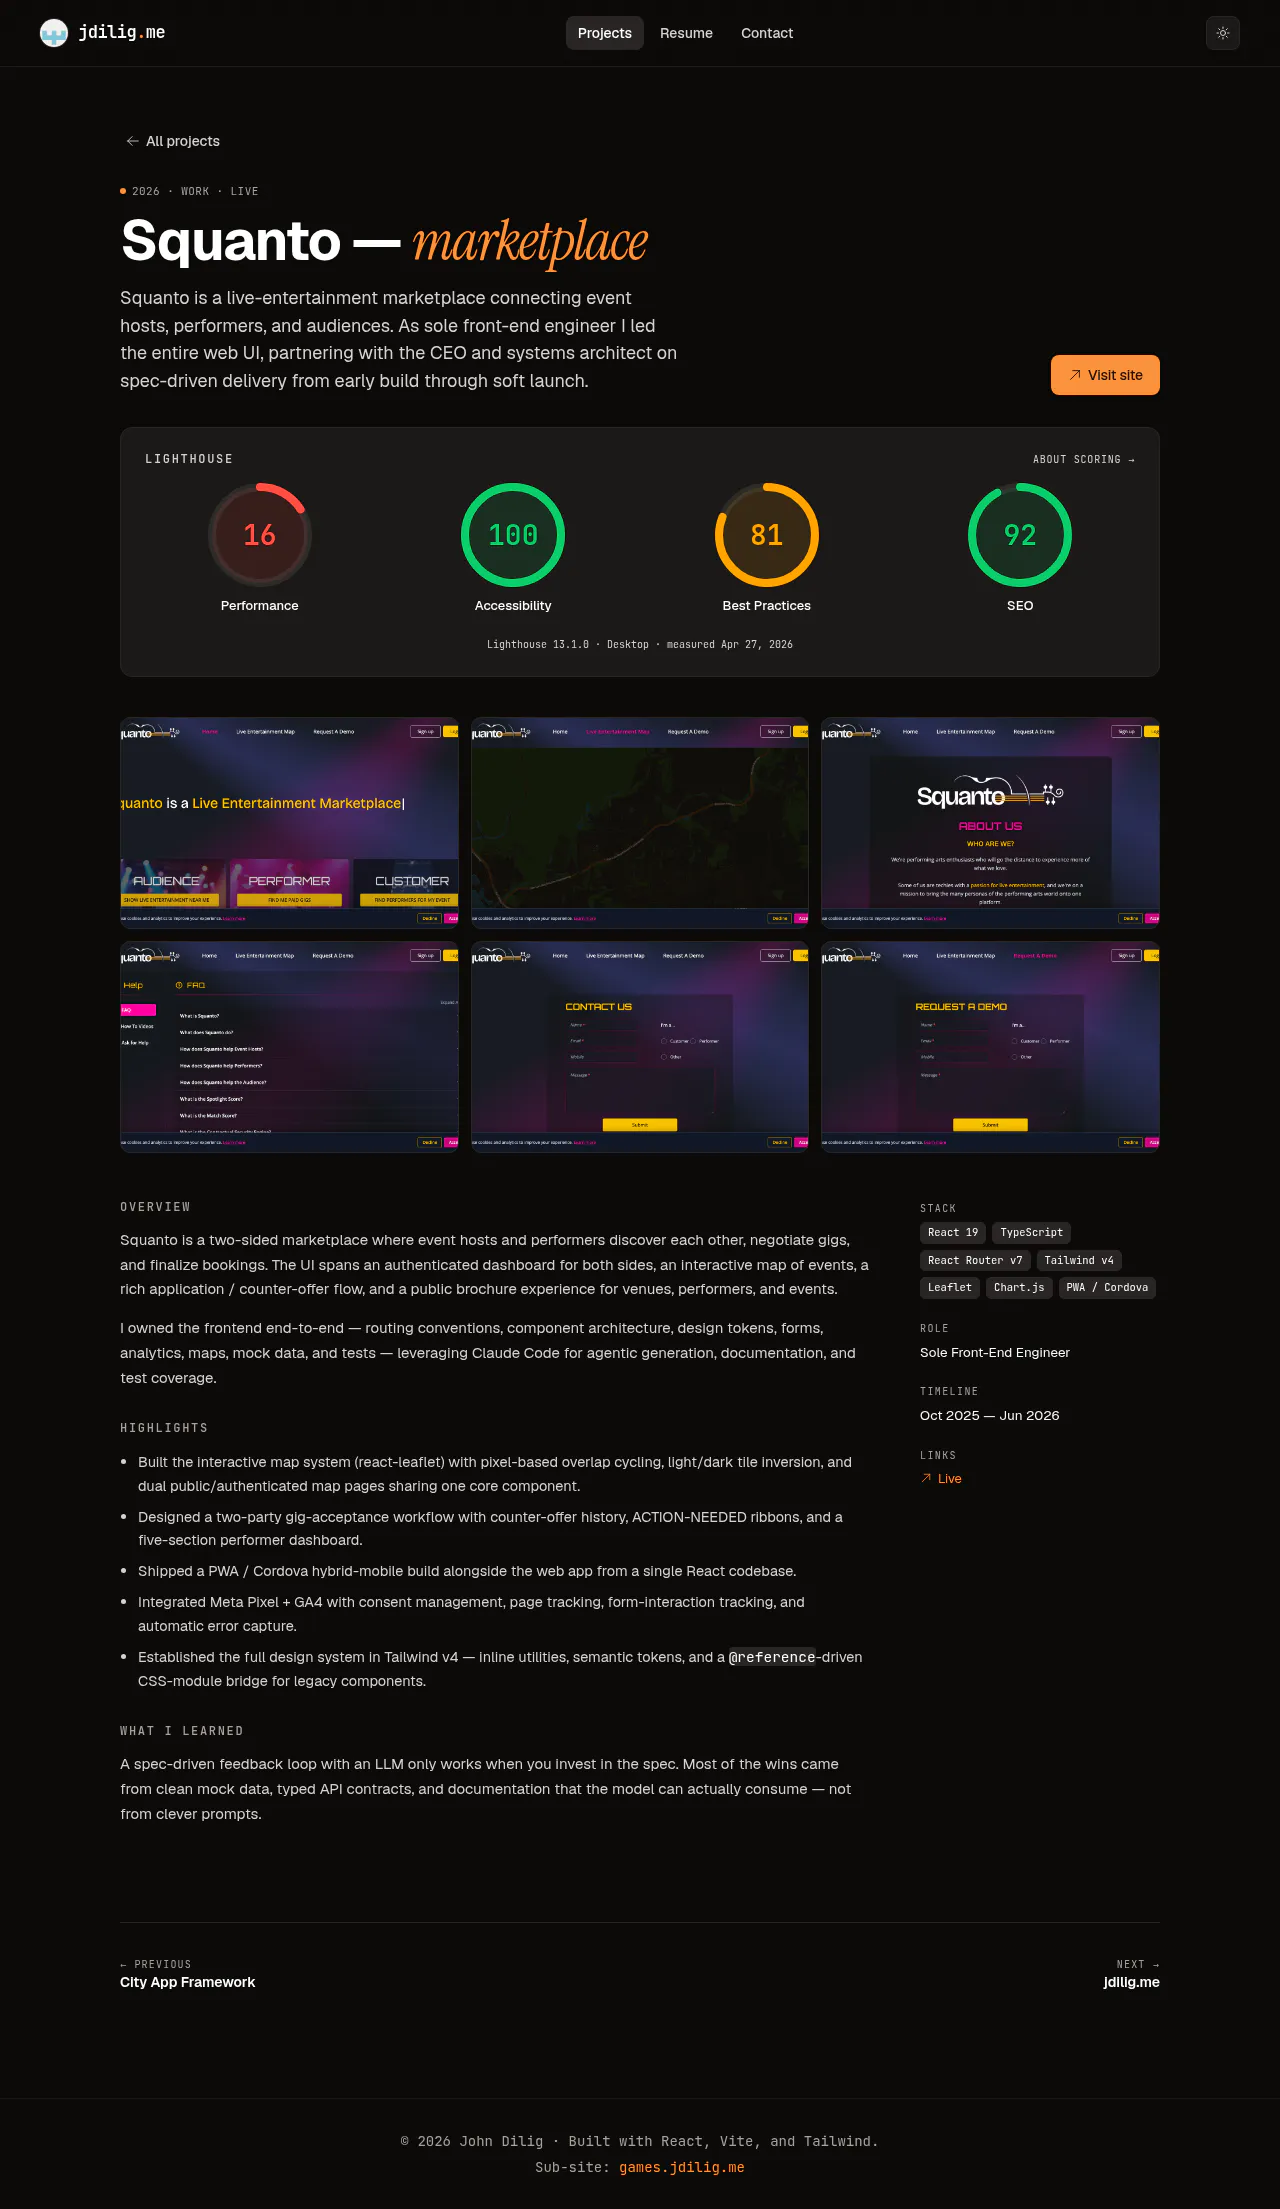
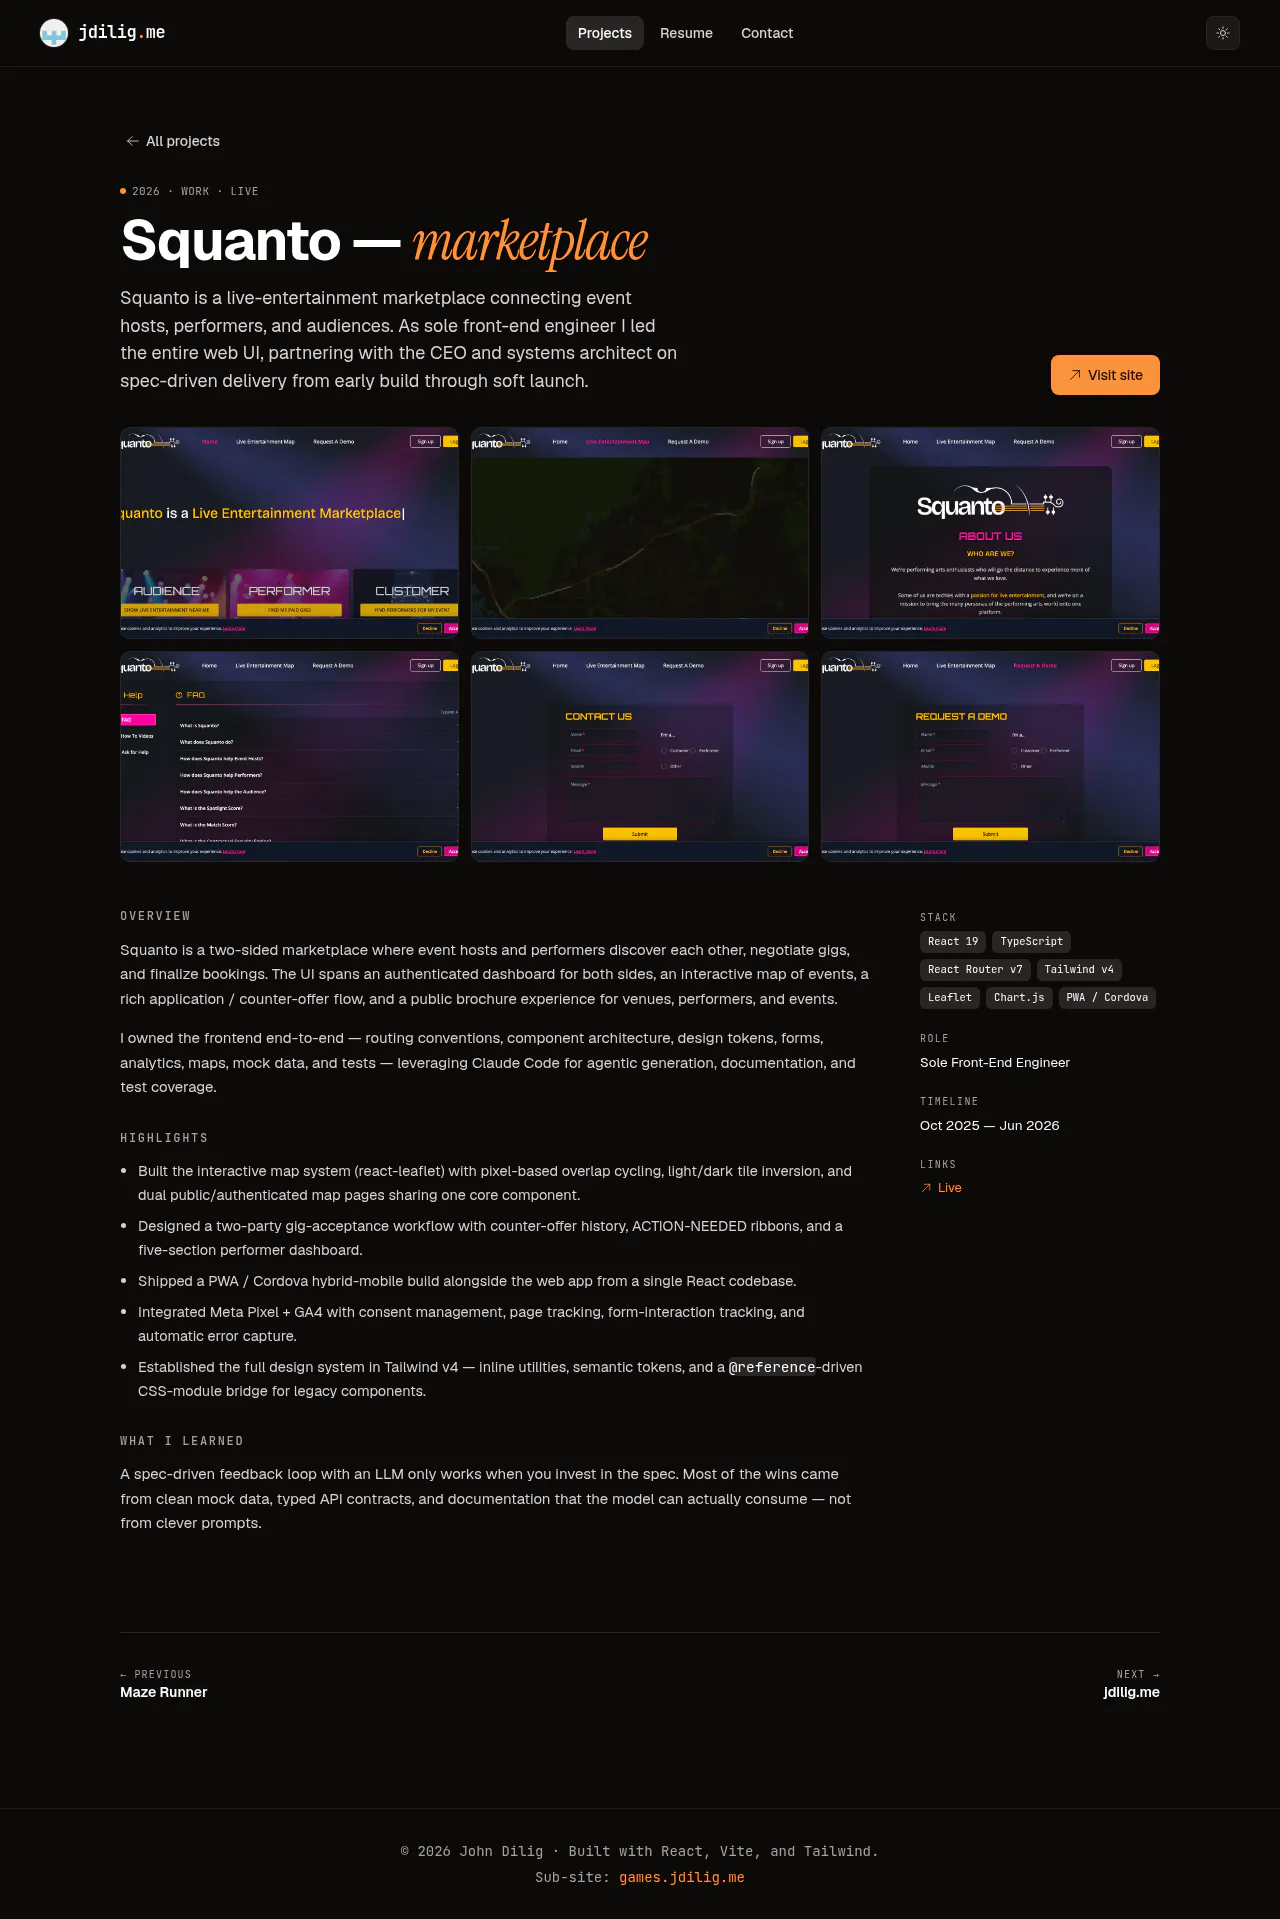
Retake the site screenshots; capture thumbnails per shot
The 8 jdilig.me screenshots were taken before City App Framework was
hidden and Squanto featured, and before the Lighthouse scores were
refreshed. Retook them; home-*, projects-* and project-detail-* changed,
resume and contact came out identical.

The first retake showed a pipeline bug: thumbnails were refreshed only
after the whole run, so the project-page shots showed last run's
thumbnails (City App Framework still featured in a tile). The spec now
writes each thumbnail right after its capture and captures the two
project pages last. Retaken again in that order; the jdilig.me project
page shot now shows the new tiles.

Also:
- jdilig.me case study: the light accent is orange-700, not orange-600.
- BACKLOG: records John's call to hold off on the Resend cleanup, skip
  deleting the old Vercel project, and skip real-phone checks; notes to
  retake screenshots when City App Framework returns.

Claude-Session: https://claude.ai/code/session_01NJcaYBv3Qm8KUHS4kHoaP5

diff --git a/tests/screenshots.spec.ts b/tests/screenshots.spec.ts
@@ -2,7 +2,7 @@ import { test, expect } from '@playwright/test';
 import path from 'node:path';
 import fs from 'node:fs';
 import sharp from 'sharp';
-import { makeThumbnails } from '../scripts/thumbnails.mjs';
+import { writeThumbnail } from '../scripts/thumbnails.mjs';
 
 const OUT_DIR = path.join(process.cwd(), 'public', 'screenshots');
 
@@ -47,10 +47,11 @@ const SHOTS: Shot[] = [
   { slug: 'home-dark', path: '/', theme: 'dark' },
   { slug: 'projects-light', path: '/projects', theme: 'light' },
   { slug: 'projects-dark', path: '/projects', theme: 'dark' },
-  { slug: 'project-detail-squanto', path: '/projects/squanto', theme: 'dark' },
-  { slug: 'project-detail-jdilig-me', path: '/projects/jdilig-me', theme: 'light' },
   { slug: 'resume', path: '/resume', theme: 'light' },
   { slug: 'contact', path: '/contact', theme: 'light' },
+  // Last: these pages show thumbnails of the shots above.
+  { slug: 'project-detail-squanto', path: '/projects/squanto', theme: 'dark' },
+  { slug: 'project-detail-jdilig-me', path: '/projects/jdilig-me', theme: 'light' },
 
   // --- Squanto public pages (routes confirmed against docs/site/SITEMAP.md) ---
   { slug: 'squanto-home', path: 'https://squanto.app/home', external: true, timeout: 60_000 },
@@ -77,12 +78,6 @@ const SHOTS: Shot[] = [
 
 test.beforeAll(() => {
   fs.mkdirSync(OUT_DIR, { recursive: true });
-});
-
-// Refresh the gallery thumbnails (public/screenshots/thumbs/) from whatever
-// this run captured.
-test.afterAll(async () => {
-  await makeThumbnails();
 });
 
 for (const shot of SHOTS) {
@@ -218,5 +213,7 @@ for (const shot of SHOTS) {
     await sharp(png)
       .webp({ quality: 80, smartSubsample: true })
       .toFile(path.join(OUT_DIR, `${shot.slug}.webp`));
+    // Right away, so pages captured later in this run show the new thumbnail.
+    await writeThumbnail(`${shot.slug}.webp`);
   });
 }

diff --git a/src/data/projects.ts b/src/data/projects.ts
@@ -243,7 +243,7 @@ export const ALL_PROJECTS: Project[] = [
     ],
     highlights: [
       'Tokens-first: every color, radius, shadow, and motion curve lives in one CSS file, bridged to Tailwind v4 via `@theme inline`.',
-      "Dark mode that flips ink and accent (orange-600 → orange-400) — not just background — driven by a `data-theme` attribute with a `@custom-variant dark` bridge.",
+      "Dark mode that flips ink and accent (orange-700 → orange-400) — not just background — driven by a `data-theme` attribute with a `@custom-variant dark` bridge.",
       "Header nav is auto-generated from the router table via a `handle: { showInNav }` convention — adding a route to the nav is a one-line change.",
       'The resume page and the downloadable PDF both render from `src/data/resume.ts`; `npm run resume:pdf` regenerates the PDF with Playwright, so the two never drift.',
       'Playwright captures both site themes and the live Squanto app, writing directly to `/public/screenshots` for use as project previews.',

diff --git a/BACKLOG.md b/BACKLOG.md
@@ -60,9 +60,8 @@ Add page-view + basic event tracking via Google Analytics 4.
 
 Loose ends from the launch session that don't fit into a feature ticket.
 
-- **Bring City App Framework back when it's redone.** It was hidden on Sept 27, 2026 while it's being redone. In `src/data/projects.ts`, delete its `hidden: true` line, then re-add its `<url>` to `public/sitemap.xml` (the sitemap test fails until you do). It was the featured project on `/projects`; Squanto is featured in its place. When City App Framework is back, delete Squanto's `featured: true` too (a test allows only one featured project). The jdilig.me gallery screenshots (`home-*`, `projects-*`) still show it, since they're pictures of the site.
-- **Clean up the old contact form's Resend setup.** The form and `/api/contact` were removed in Sept 2026, so the Resend key is no longer needed. Revoke it in the Resend dashboard (API Keys). If `RESEND_API_KEY`, `CONTACT_TO_EMAIL`, and `CONTACT_FROM_EMAIL` are still set in Vercel (Settings → Environment Variables), delete them. Whether they're still set is unverified: the token used in Sept 2026 couldn't list env vars.
-- **Archive or delete the old `jdilig-me` Vercel project.** It's orphaned now that `jdilig.me` / `www.jdilig.me` moved to `jdilig-me-v3`. Confirm v3 has been stable for a few days, then in Vercel: open the old project → Settings → bottom of page → "Delete Project" (or just leave it parked at its `*.vercel.app` URL).
+- **Bring City App Framework back when it's redone.** It was hidden on Sept 27, 2026 while it's being redone. In `src/data/projects.ts`, delete its `hidden: true` line, then re-add its `<url>` to `public/sitemap.xml` (the sitemap test fails until you do). It was the featured project on `/projects`; Squanto is featured in its place. When City App Framework is back, delete Squanto's `featured: true` too (a test allows only one featured project), then retake the site screenshots (`npm run screenshots`) so they show it again.
+- **On hold / not doing (John's call, Sept 27, 2026):** revoking the old Resend key and deleting its Vercel env vars (the form is gone and the Resend account isn't paid); deleting the old `jdilig-me` Vercel project; spot-checking on real phones. Don't re-suggest these.
 - **Improve game canvas screenshots.** Per-game previews still capture only the HUD overlay. The capture spec now clicks the canvas, sends a key, waits for `networkidle`, and probes computed styles. Diagnostic shows `bodyBg: "rgba(0, 0, 0, 0)"` and `bodyDisplay: "block"` for game pages — the games' `style.css` isn't applying in Playwright (computed body bg should be `#0f1116`). CSS file itself is reachable (`HTTP 200`, `content-type: text/css`) — likely a service-worker or HTTP cache issue specific to headless Chromium. Investigate by adding `bypassCSP: true` to the Playwright context and/or sending `Cache-Control: no-cache` headers on the navigation. Until resolved, hand-grabbed PNGs would be a fine workaround.
 
 ---
@@ -73,13 +72,13 @@ The Sept 2026 responsive pass shipped the core fixes (see "Recently shipped"). H
 
 - Extend `tests/screenshots.spec.ts` to capture each route at one mobile viewport — gives a regression baseline.
 - Gallery lightbox: add swipe gestures (tap targets for prev / next already exist).
-- Spot-check on a real iPhone (Safari) and Android (Chrome) — everything so far was verified in desktop Chromium's mobile emulation.
 - The header hides the `jdilig.me` wordmark below 640px so the three nav links fit. If the nav grows past three links, switch to a menu (Headless UI's `Disclosure` is installed but unused — mind the bundle cost).
 
 ---
 
 ## Recently shipped
 
+- **Site screenshots retaken (Sept 27, 2026).** The jdilig.me gallery now shows Squanto as the featured project (City App Framework is hidden) and the refreshed Lighthouse scores. The capture spec now writes each thumbnail right after its capture and captures the two project pages last, so one run is consistent. Also fixed the jdilig.me case study: the light accent is orange-700, not orange-600.
 - **Featured card and pop-up use thumbnails too (Sept 2026).** Both now pick the 720 px copy when it's enough for the screen: on regular-resolution screens and 2× phones, the featured card on `/projects` went from 60 KB to 12 KB and the Squanto pop-up image from 43 KB to 21 KB. 2× desktops and 3× phones still get the original. The thumbnail test now covers every project screenshot.
 - **Gallery thumbnails (Sept 2026).** Gallery tiles load 720 px-wide copies (`public/screenshots/thumbs/`, made by `npm run thumbnails`) instead of the 1280 px originals; the lightbox still loads the original. Tile images per project page: Squanto 196 → 88 KB, jdilig.me 431 → 177 KB, Coding Interview Reviewer 142 → 56 KB. A unit test fails if a gallery screenshot has no thumbnail.
 - **Squanto's Lighthouse scores removed (Sept 2026).** The score panel no longer appears on `/projects/squanto`; `src/data/squanto-lighthouse.json`, the `lighthouse:squanto` script, and its workflow step are gone. The Squanto project page and resume entry are unchanged.

diff --git a/docs/screenshots.md b/docs/screenshots.md
@@ -27,7 +27,7 @@ npm run screenshots
        │    6. (optional) extra wait
        │    7. 404 guard — fail if document.title contains '404' / 'Not Found' / 'Server Error' / 'Unauthorized'
        │    8. screenshot (PNG in memory) → sharp → public/screenshots/<slug>.webp
-       ├─ afterAll: makeThumbnails() (same as npm run thumbnails) → public/screenshots/thumbs/
+       │    9. writeThumbnail() → public/screenshots/thumbs/<slug>.webp
        └─ exit 0 if all pass
 ```
 
@@ -120,7 +120,7 @@ The `pressKey` step clicks the first `<canvas>` to focus the game, then calls `p
 ## Where the captures live
 
 - `public/screenshots/*.webp` — committed to the repo. Captured with Playwright's Desktop Chrome preset (1280×720 viewport at 1×), so most are 1280 px wide; full-page shots are taller. `city-app-framework.webp` is the exception at 2560×1440.
-- `public/screenshots/thumbs/*.webp` — a 720 px-wide copy of each screenshot, also committed. Gallery tiles (at most ~340 px wide), the featured card on `/projects`, and the project pop-up load these through `srcset` whenever 720 px is enough for the screen (see `src/lib/screenshots.ts`); the lightbox and the top image on project pages load the original. `npm run thumbnails` rewrites them all and deletes any whose screenshot is gone. The capture spec runs it at the end of every run. `src/data/screenshots.test.ts` fails if a project screenshot is missing, narrower than 1280 px, or has no 720 px thumbnail.
+- `public/screenshots/thumbs/*.webp` — a 720 px-wide copy of each screenshot, also committed. Gallery tiles (at most ~340 px wide), the featured card on `/projects`, and the project pop-up load these through `srcset` whenever 720 px is enough for the screen (see `src/lib/screenshots.ts`); the lightbox and the top image on project pages load the original. `npm run thumbnails` rewrites them all and deletes any whose screenshot is gone. The capture spec writes each thumbnail right after its capture, and captures the project pages (which show thumbnails) last. `src/data/screenshots.test.ts` fails if a project screenshot is missing, narrower than 1280 px, or has no 720 px thumbnail.
 - Got a PNG from somewhere else (like the `cir-*` shots)? Convert it the same way, then run `npm run thumbnails`: `node -e "require('sharp')('in.png').webp({ quality: 80, smartSubsample: true }).toFile('public/screenshots/out.webp')"`.
 - `test-results/` — Playwright run artifacts. Gitignored.
 - `playwright-report/` — HTML report. Gitignored.

diff --git a/AGENTS.md b/AGENTS.md
@@ -162,7 +162,7 @@ Configured in `tsconfig.app.json` (`paths`) and `vite.config.ts` (`resolve.alias
 - Playwright auto-starts its own dev server (`vite --port 4173 --strictPort`, so it never collides with `npm run dev` on `:5173`) unless something is already listening on `:4173`.
 - To take a project off the site without deleting it, set `hidden: true` in `src/data/projects.ts` and remove its URL from `public/sitemap.xml` (the sitemap test fails until you do). The site reads `PROJECTS`, which leaves hidden projects out.
 - Projects in `src/data/projects.ts` can reference a screenshot via `previewImage: '/screenshots/...webp'`. `ProjectHeroPreview` uses the image when provided and falls back to a starfield placeholder.
-- Gallery tiles, the featured card, and the project pop-up load 720 px-wide copies from `public/screenshots/thumbs/` through `srcset` when that's enough for the screen (`npm run thumbnails` makes them; the capture spec also runs it). The lightbox and the project-page hero load the original.
+- Gallery tiles, the featured card, and the project pop-up load 720 px-wide copies from `public/screenshots/thumbs/` through `srcset` when that's enough for the screen (`npm run thumbnails` makes them; the capture spec writes each one after its capture). The lightbox and the project-page hero load the original.
 
 ## Testing
 
